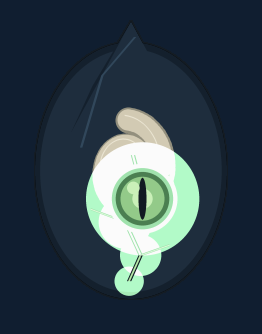
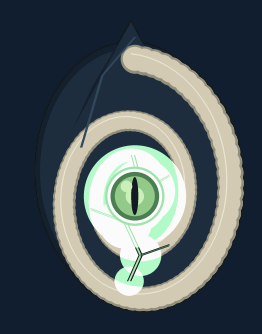
skybit broods: Barramundi + Quinkan-Imjim ship-ready (Mokoi 3/5)

Changed region(s): [[0.1832, 0.1198, 0.9466, 0.9581]]

diff --git a/docs/skybit_devil/batch2/umibozu_versions/chochin_anko/render_chochin_anko.py b/docs/skybit_devil/batch2/umibozu_versions/chochin_anko/render_chochin_anko.py
@@ -469,15 +469,23 @@ def build_chochin_anko(scale=1.0, ss=5, *, night=False, compact=False):
     # the "lure on a stick rooted in THIS creature" read.
     stalk_c = _shade_c(STALK, 10) if night else STALK
     (jx0, jy0), (jx1, jy1) = pts[0], pts[1]
-    pygame.draw.line(surf, _shade_c(stalk_c, -22),
-                     (int(jx0), int(jy0)), (int(jx1), int(jy1)),
-                     max(3, int(hw0 * 2.0)))
-    pygame.draw.line(surf, stalk_c,
-                     (int(jx0), int(jy0)), (int(jx1), int(jy1)),
-                     max(2, int(hw0 * 1.3)))
+    if compact:
+        # Compact keeps the same single solid dark stroke through the join so the
+        # stub never thins to a wisp at 32px.
+        pygame.draw.line(surf, _shade_c(stalk_c, -26),
+                         (int(jx0), int(jy0)), (int(jx1), int(jy1)),
+                         max(3, int(hw0 * 1.7)))
+    else:
+        pygame.draw.line(surf, _shade_c(stalk_c, -22),
+                         (int(jx0), int(jy0)), (int(jx1), int(jy1)),
+                         max(3, int(hw0 * 2.0)))
+        pygame.draw.line(surf, stalk_c,
+                         (int(jx0), int(jy0)), (int(jx1), int(jy1)),
+                         max(2, int(hw0 * 1.3)))
 
     # The esca lure last + on TOP so its glow blooms over everything — the sole
     # brightest pip, dangled at the stalk tip over the grump's face.
+    tip_x, tip_y = pts[-1]
     _esca(surf, tip_x, tip_y, lure_r, ss, night=night, epic=not compact)
 
     out_w = int(surf.get_width() / ss)

diff --git a/docs/skybit_devil/batch2/umibozu_versions/hamaguri/render_hamaguri.py b/docs/skybit_devil/batch2/umibozu_versions/hamaguri/render_hamaguri.py
@@ -570,7 +570,7 @@ def main():
     sheet = pygame.Surface((SW, SH))
     sheet.fill((54, 50, 46))          # warm neutral grey bg
     _label(sheet, font,
-            "HAMAGURI-SHINKIROU  —  Umibozu-versions #4  —  mirage clam, mouth of a drowned city  —  round 1", 18, 12)
+            "HAMAGURI-SHINKIROU  —  Umibozu-versions #4  —  mirage clam, mouth of a drowned city  —  round 2", 18, 12)
     _label(sheet, small,
             "Horizontal clam-mouth (the ONLY horizontal-grin of the brood) humming a translucent pearl-green pagoda-city out of its parted lips. Warm sea-rust shell w/ bold RADIATING fan-ribs; never teal.",
             18, 32, (214, 206, 188))
@@ -709,7 +709,7 @@ def main():
            18, SH - 22, (214, 206, 188))
 
     out_dir = os.path.dirname(os.path.abspath(__file__))
-    out_path = os.path.join(out_dir, "round_1.png")
+    out_path = os.path.join(out_dir, "round_2.png")
     pygame.image.save(sheet, out_path)
     print("wrote", out_path)
 
